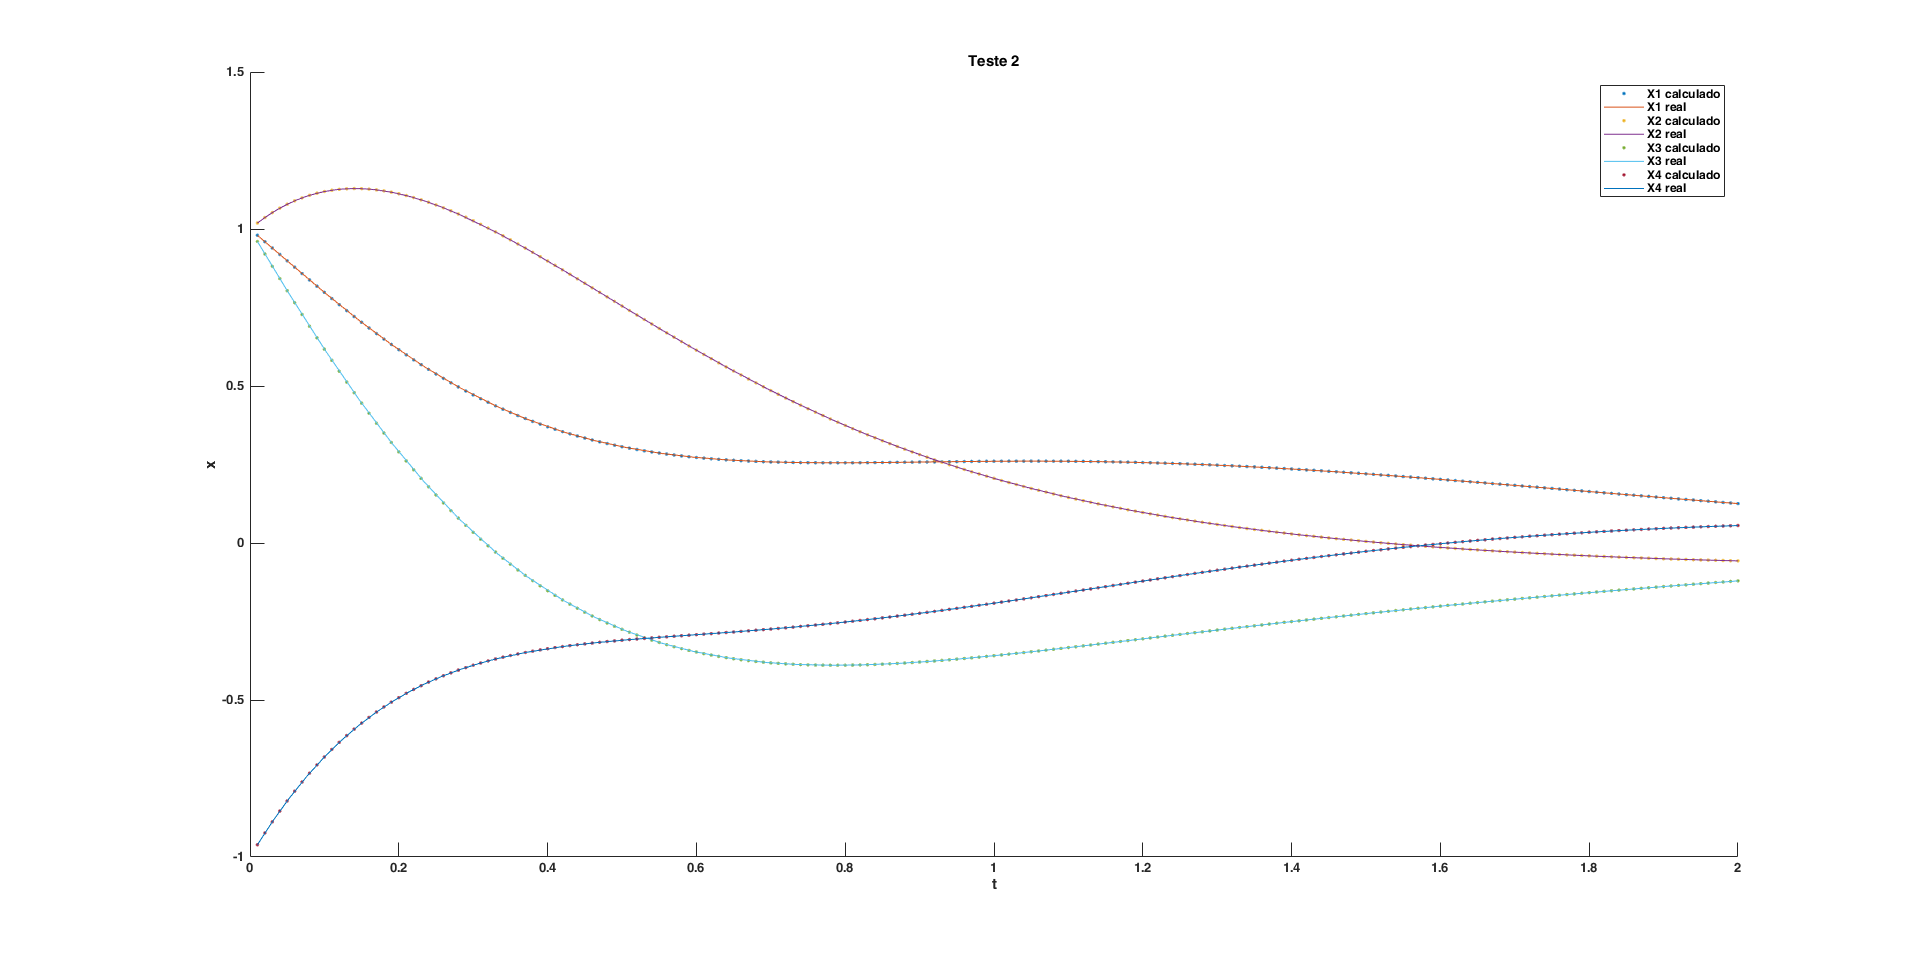
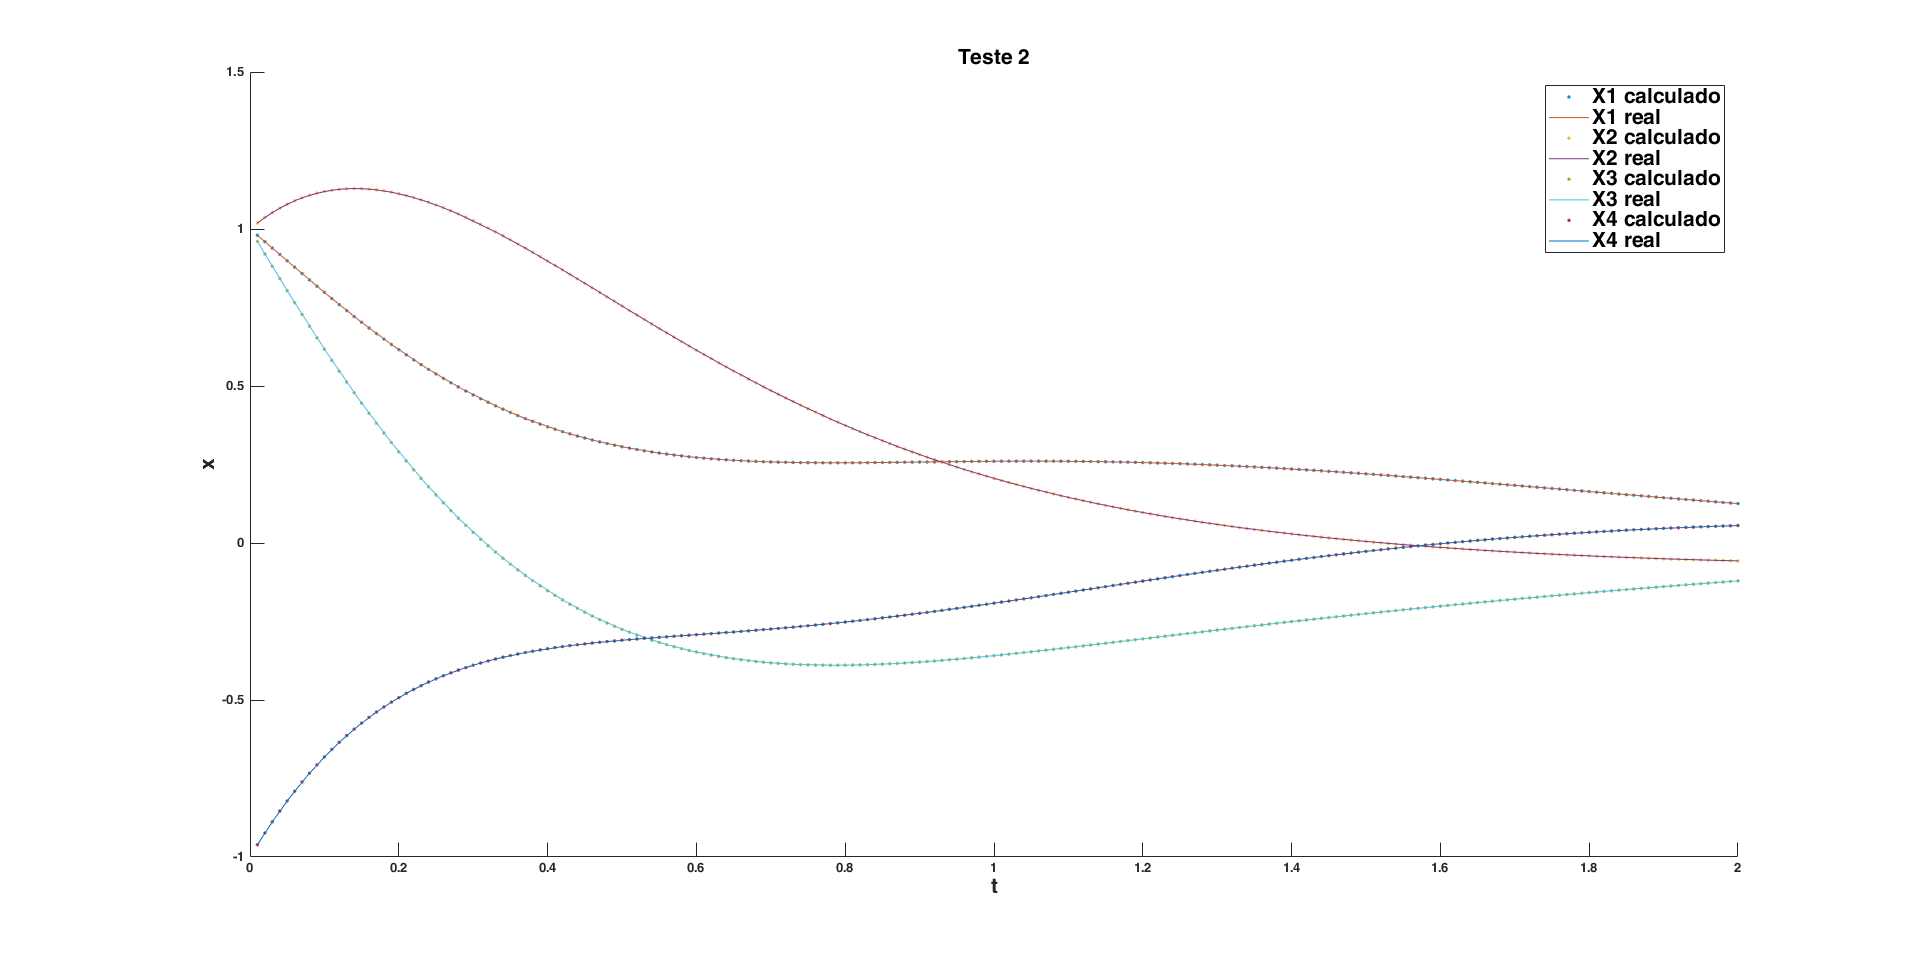
mais ibagens

Changed region(s): [[0.8125, 0.0935, 0.9062, 0.2804], [0.5, 0.0312, 0.5312, 0.0935]]

diff --git a/EP2/Graficos.m b/EP2/Graficos.m
@@ -33,11 +33,12 @@ for j = 1:4
     fplot(xt{j}, [t(1) t(end)]);
 end
 
-title('Teste 2');
-xlabel('t');
-ylabel('x');
+title('Teste 2', 'FontSize', 16);
+xlabel('t', 'FontSize', 16);
+ylabel('x', 'FontSize', 16);
 
-legend('X1 calculado', 'X1 real', 'X2 calculado', 'X2 real', 'X3 calculado', 'X3 real', 'X4 calculado', 'X4 real');
+lgd = legend('X1 calculado', 'X1 real', 'X2 calculado', 'X2 real', 'X3 calculado', 'X3 real', 'X4 calculado', 'X4 real');
+lgd.FontSize = 16;
 
 %% Parte 3
 X = dlmread('out3.txt');
@@ -58,17 +59,19 @@ for j = 1:7
     fplot(xt{j}, [t(1) t(end)]);
 end
 
-title('Teste 3');
-xlabel('t');
-ylabel('x');
+title('Teste 3', 'FontSize', 16);
+xlabel('t', 'FontSize', 16);
+ylabel('x', 'FontSize', 16);
 
-legend('X1 calculado', 'X1 real', ...
+lgd = legend('X1 calculado', 'X1 real', ...
     'X2 calculado', 'X2 real', ...
     'X3 calculado', 'X3 real', ...
     'X4 calculado', 'X4 real', ...
     'X5 calculado', 'X5 real', ...
     'X6 calculado', 'X6 real', ...
     'X7 calculado', 'X7 real');
+
+lgd.FontSize = 16;
 
 %% Parte 4 - Chua
 f1 = figure;
@@ -77,7 +80,7 @@ s2 = subplot(4,3,10);
 s3 = subplot(4,3,11);
 s4 = subplot(4,3,12);
 
-n = 1538;
+n = 2500;
 
 % for n = 1535:1549
     X = dlmread(['out4_' int2str(n) '.txt']);

diff --git a/EP2/main.c b/EP2/main.c
@@ -31,7 +31,7 @@ vector_t* x2t(double t, vector_t* res);
 vector_t* x3t(double t, vector_t* res);
 vector_t* xt_chua(double t, vector_t* res);
 
-double R = 1537;
+double R = 1600;
 
 int main(int argc, char* argv[]) {
     if (argc < 2) {
@@ -122,14 +122,14 @@ int main(int argc, char* argv[]) {
 
 			// FILE* out2 = fopen("tempos.txt", "w");
 
-            for (; R < 1550; R++) {
+            // for (; R < 2000; R++) {
                 sprintf(buffer, "out4_%.0f.txt", R);
-                printf("Começando R = %04.0f\n", R);
+                // printf("Começando R = %04.0f\n", R);
 				// it = clock();
                 rkf45_solve(X0, t0, tf, eps, h, F_chua, xt_chua, buffer);
 			// 	t_exec = (double)(clock() - it)/CLOCKS_PER_SEC;
 			// 	fprintf(out2, "%.0f  %.8e\n", R, t_exec);
-            }
+            // }
 
 			// fclose(out2);
             break;
